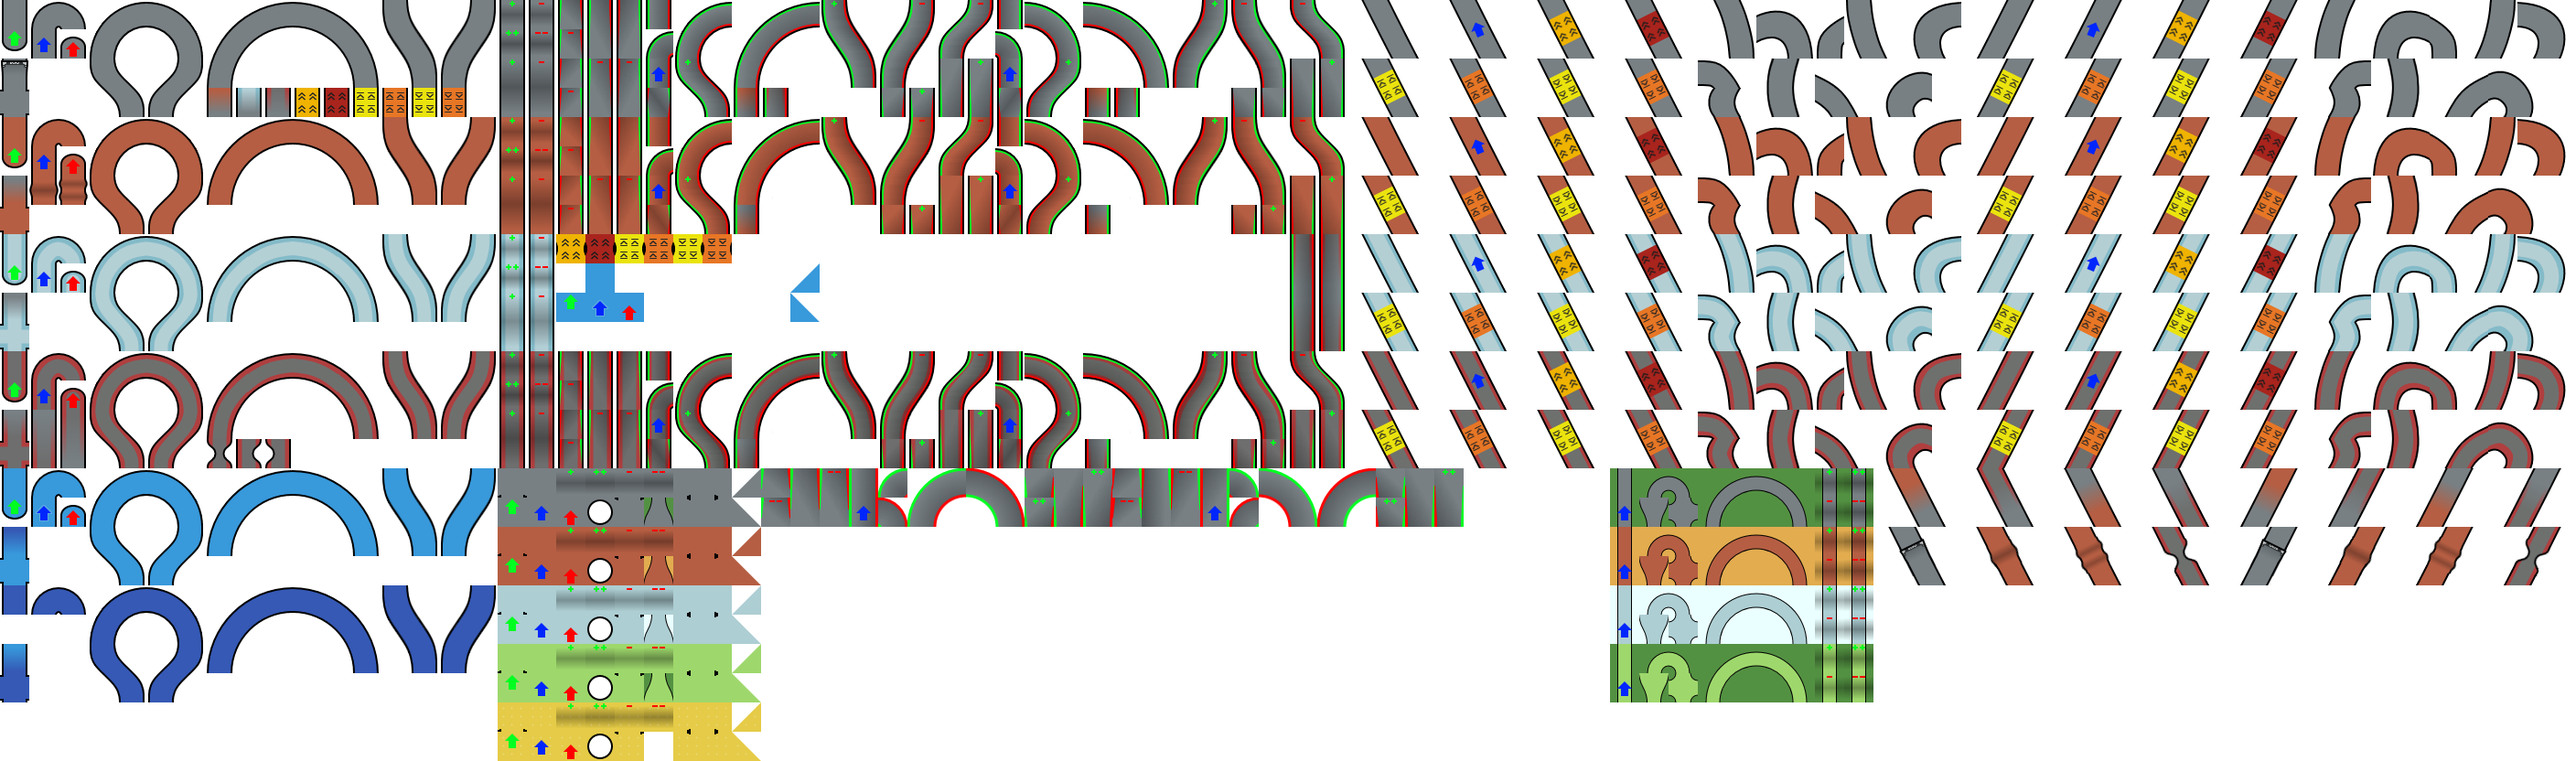
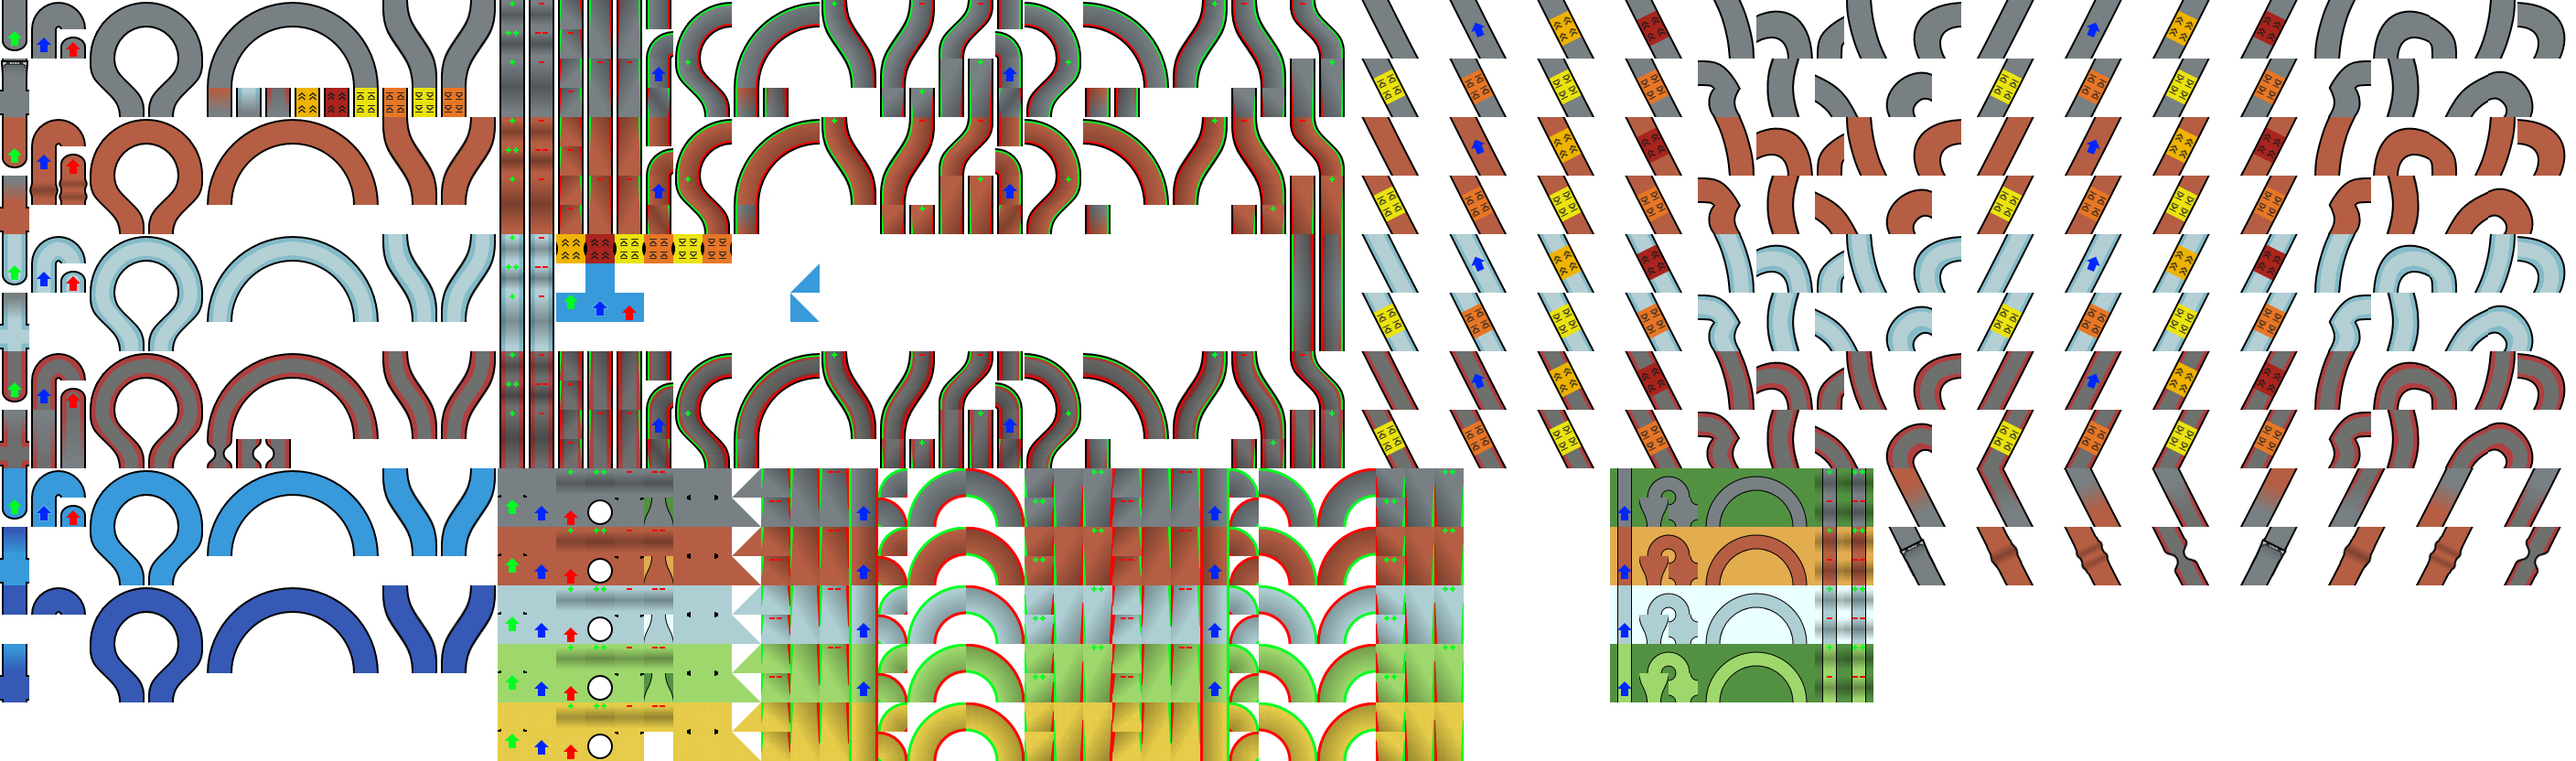
"Fixed" rendering of banked block pieces

Changed region(s): [[0.2812, 0.6562, 0.5938, 1.0]]

diff --git a/piecetypes.js b/piecetypes.js
@@ -1246,6 +1246,8 @@ let gBlockBankTransitionPieceTemplates =
 		collisionOffset: new Vector3D(0, 0, -0.5),
 		collisionExtents: new Vector3D(0.5, 0.5, 1.5),
 		transitionTo: { material: "BlockBankRight" },
+		useCollisionForRender: true,
+		renderCollisionOffset: -1,
 	},
 	toBlockBankRightLevelLong:
 	{
@@ -1268,6 +1270,8 @@ let gBlockBankTransitionPieceTemplates =
 		collisionOffset: new Vector3D(0, -0.5, -0.5),
 		collisionExtents: new Vector3D(0.5, 1, 1.5),
 		transitionTo: { material: "BlockBankRight" },
+		useCollisionForRender: true,
+		renderCollisionOffset: -1,
 	},
 	toBlockBankLeftLevelShort:
 	{
@@ -1290,6 +1294,8 @@ let gBlockBankTransitionPieceTemplates =
 		collisionOffset: new Vector3D(0, 0, -0.5),
 		collisionExtents: new Vector3D(0.5, 0.5, 1.5),
 		transitionTo: { material: "BlockBankLeft" },
+		useCollisionForRender: true,
+		renderCollisionOffset: -1,
 	},
 	toBlockBankLeftLevelLong:
 	{
@@ -1312,6 +1318,8 @@ let gBlockBankTransitionPieceTemplates =
 		collisionOffset: new Vector3D(0, -0.5, -0.5),
 		collisionExtents: new Vector3D(0.5, 1, 1.5),
 		transitionTo: { material: "BlockBankLeft" },
+		useCollisionForRender: true,
+		renderCollisionOffset: -1,
 	},
 };
 
@@ -1479,6 +1487,7 @@ let gBlockBankedPieceTemplates =
 		collisionOffset: new Vector3D(0, 0, 1.5),
 		collisionExtents: new Vector3D(0.5, 0.5, 1.5),
 		transitionTo: { material: "Block" },
+		useCollisionForRender: true,
 	},
 	toBlockLevelLong:
 	{
@@ -1501,6 +1510,7 @@ let gBlockBankedPieceTemplates =
 		collisionOffset: new Vector3D(0, -0.5, 1.5),
 		collisionExtents: new Vector3D(0.5, 1, 1.5),
 		transitionTo: { material: "Block" },
+		useCollisionForRender: true,
 	},
 };
 
@@ -2673,6 +2683,22 @@ let InitialisePieceTypes = function()
 	CreatePieceTypesFromTemplate(gBlockBankTransitionPieceTemplates, "roadBlock", new Vector2D(0, 0), undefined, 0, "road");
 	CreatePieceTypesFromTemplate(gBlockBankedPieceTemplates, "roadBlockBankRight", new Vector2D(0, 0), undefined, 0, "road");
 	CreatePieceTypesFromTemplate(gBlockBankedPieceTemplates, "roadBlockBankLeft", new Vector2D(384, 0), undefined, 0, "road", true);
+
+	CreatePieceTypesFromTemplate(gBlockBankTransitionPieceTemplates, "dirtBlock", new Vector2D(0, 64), undefined, 0, "dirt");
+	CreatePieceTypesFromTemplate(gBlockBankedPieceTemplates, "dirtBlockBankRight", new Vector2D(0, 64), undefined, 0, "dirt");
+	CreatePieceTypesFromTemplate(gBlockBankedPieceTemplates, "dirtBlockBankLeft", new Vector2D(384, 64), undefined, 0, "dirt", true);
+
+	CreatePieceTypesFromTemplate(gBlockBankTransitionPieceTemplates, "iceBlock", new Vector2D(0, 128), undefined, 0, "ice");
+	CreatePieceTypesFromTemplate(gBlockBankedPieceTemplates, "iceBlockBankRight", new Vector2D(0, 128), undefined, 0, "ice");
+	CreatePieceTypesFromTemplate(gBlockBankedPieceTemplates, "iceBlockBankLeft", new Vector2D(384, 128), undefined, 0, "ice", true);
+
+	CreatePieceTypesFromTemplate(gBlockBankTransitionPieceTemplates, "grassBlock", new Vector2D(0, 192), undefined, 0, "grass");
+	CreatePieceTypesFromTemplate(gBlockBankedPieceTemplates, "grassBlockBankRight", new Vector2D(0, 192), undefined, 0, "grass");
+	CreatePieceTypesFromTemplate(gBlockBankedPieceTemplates, "grassBlockBankLeft", new Vector2D(384, 192), undefined, 0, "grass", true);
+
+	CreatePieceTypesFromTemplate(gBlockBankTransitionPieceTemplates, "rubberBlock", new Vector2D(0, 256), undefined, 0, "rubber");
+	CreatePieceTypesFromTemplate(gBlockBankedPieceTemplates, "rubberBlockBankRight", new Vector2D(0, 256), undefined, 0, "rubber");
+	CreatePieceTypesFromTemplate(gBlockBankedPieceTemplates, "rubberBlockBankLeft", new Vector2D(384, 256), undefined, 0, "rubber", true);
 
 	CreatePieceTypesFromTemplate(gDiagonalTransitionPieceTemplates, "roadFlat", new Vector2D(0, 0), undefined, 0, "road");
 	CreatePieceTypesFromTemplate(gDiagonalPieceTemplates, "roadDiagLeft", new Vector2D(0, 0), undefined, 0, "road");

diff --git a/ui.js b/ui.js
@@ -107,8 +107,9 @@ let DetermineDeltaZForDraw = function(placedPiece, viewZ, layerViewType)
 		let nearestZWithinCollision = placedPiece.translation.z;
 		if (placedPieceType.useCollisionForRender && placedPieceType.collisionOffset && placedPieceType.collisionExtents)
 		{
-			let minimumZCollision = nearestZWithinCollision + placedPieceType.collisionOffset.z - placedPieceType.collisionExtents.z;
-			let maximumZCollision = nearestZWithinCollision + placedPieceType.collisionOffset.z + placedPieceType.collisionExtents.z;
+			let renderCollisionOffset = placedPieceType.renderCollisionOffset ? placedPieceType.renderCollisionOffset : 0;	//Fudge!
+			let minimumZCollision = nearestZWithinCollision + placedPieceType.collisionOffset.z - placedPieceType.collisionExtents.z + renderCollisionOffset;
+			let maximumZCollision = nearestZWithinCollision + placedPieceType.collisionOffset.z + placedPieceType.collisionExtents.z + renderCollisionOffset;
 
 			if (placedPieceType.collisionOffset.z > 0)
 				maximumZCollision -= 1;
